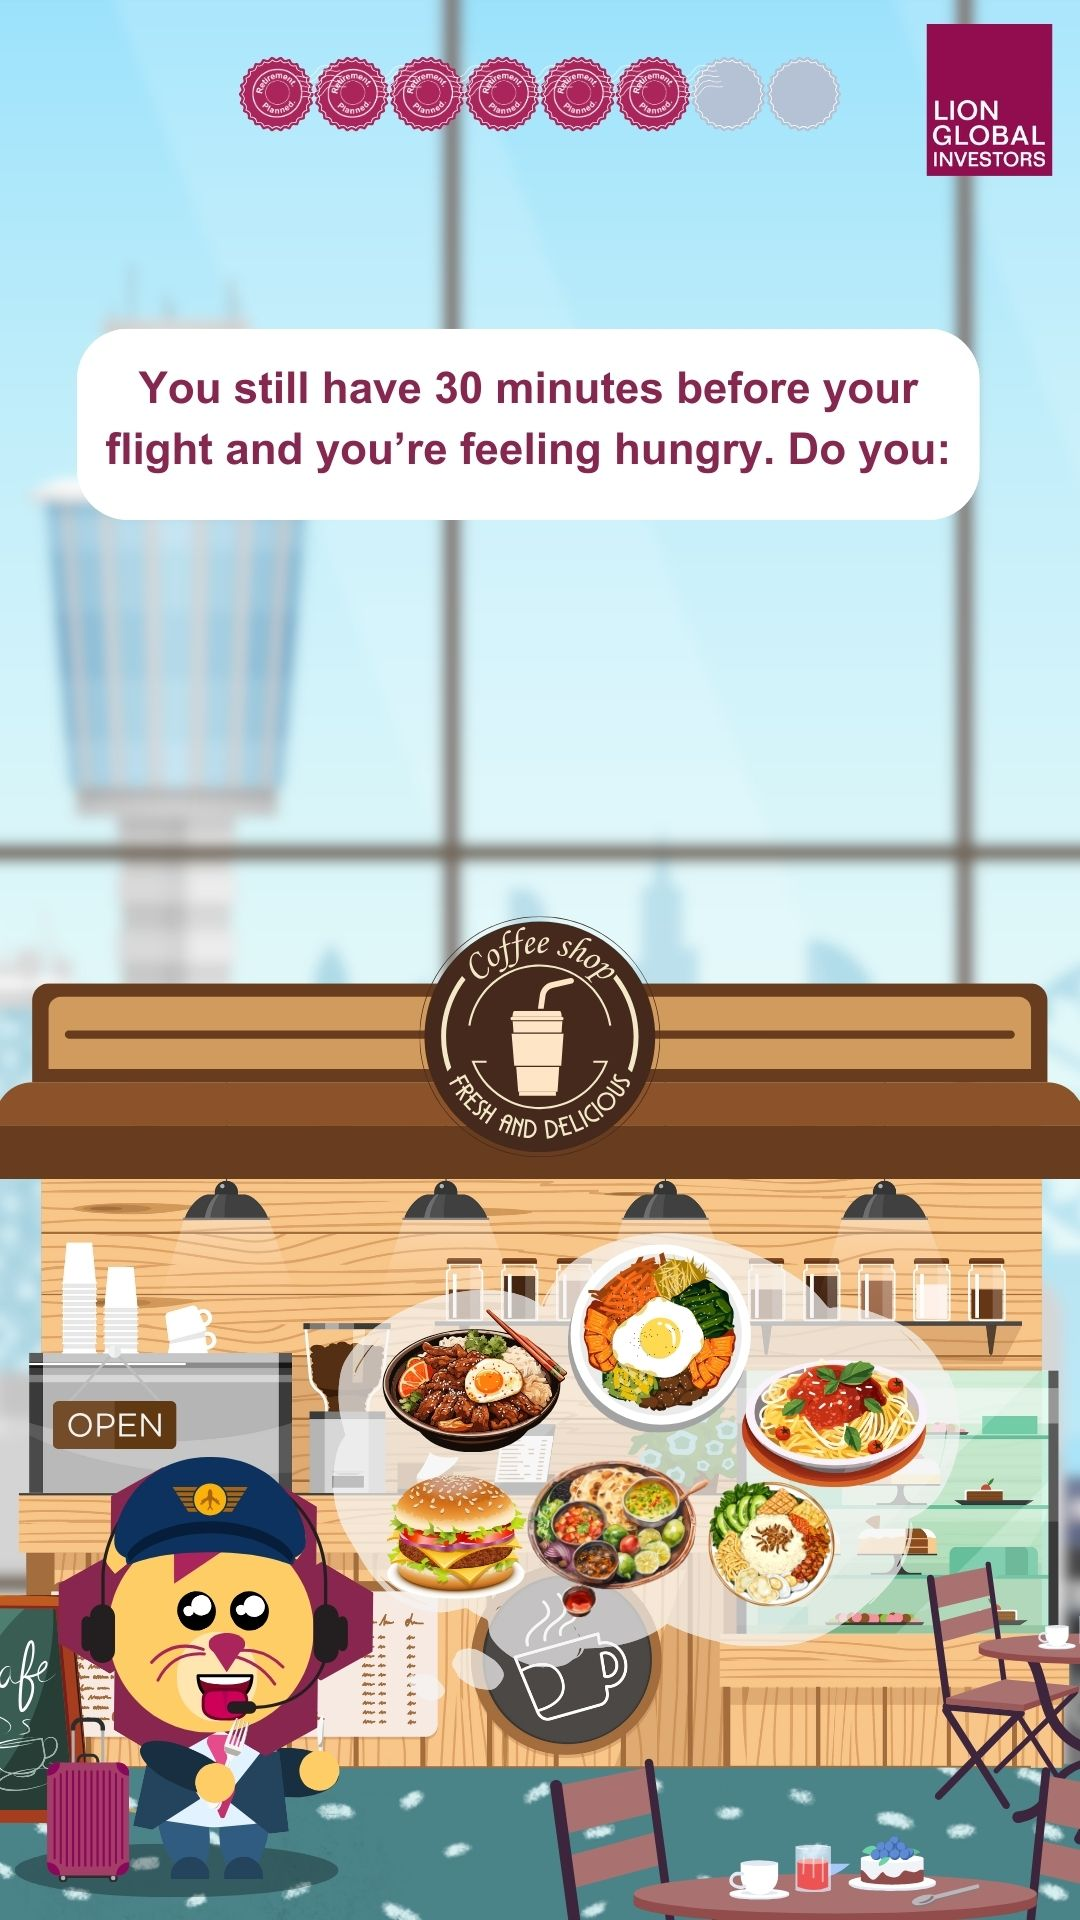
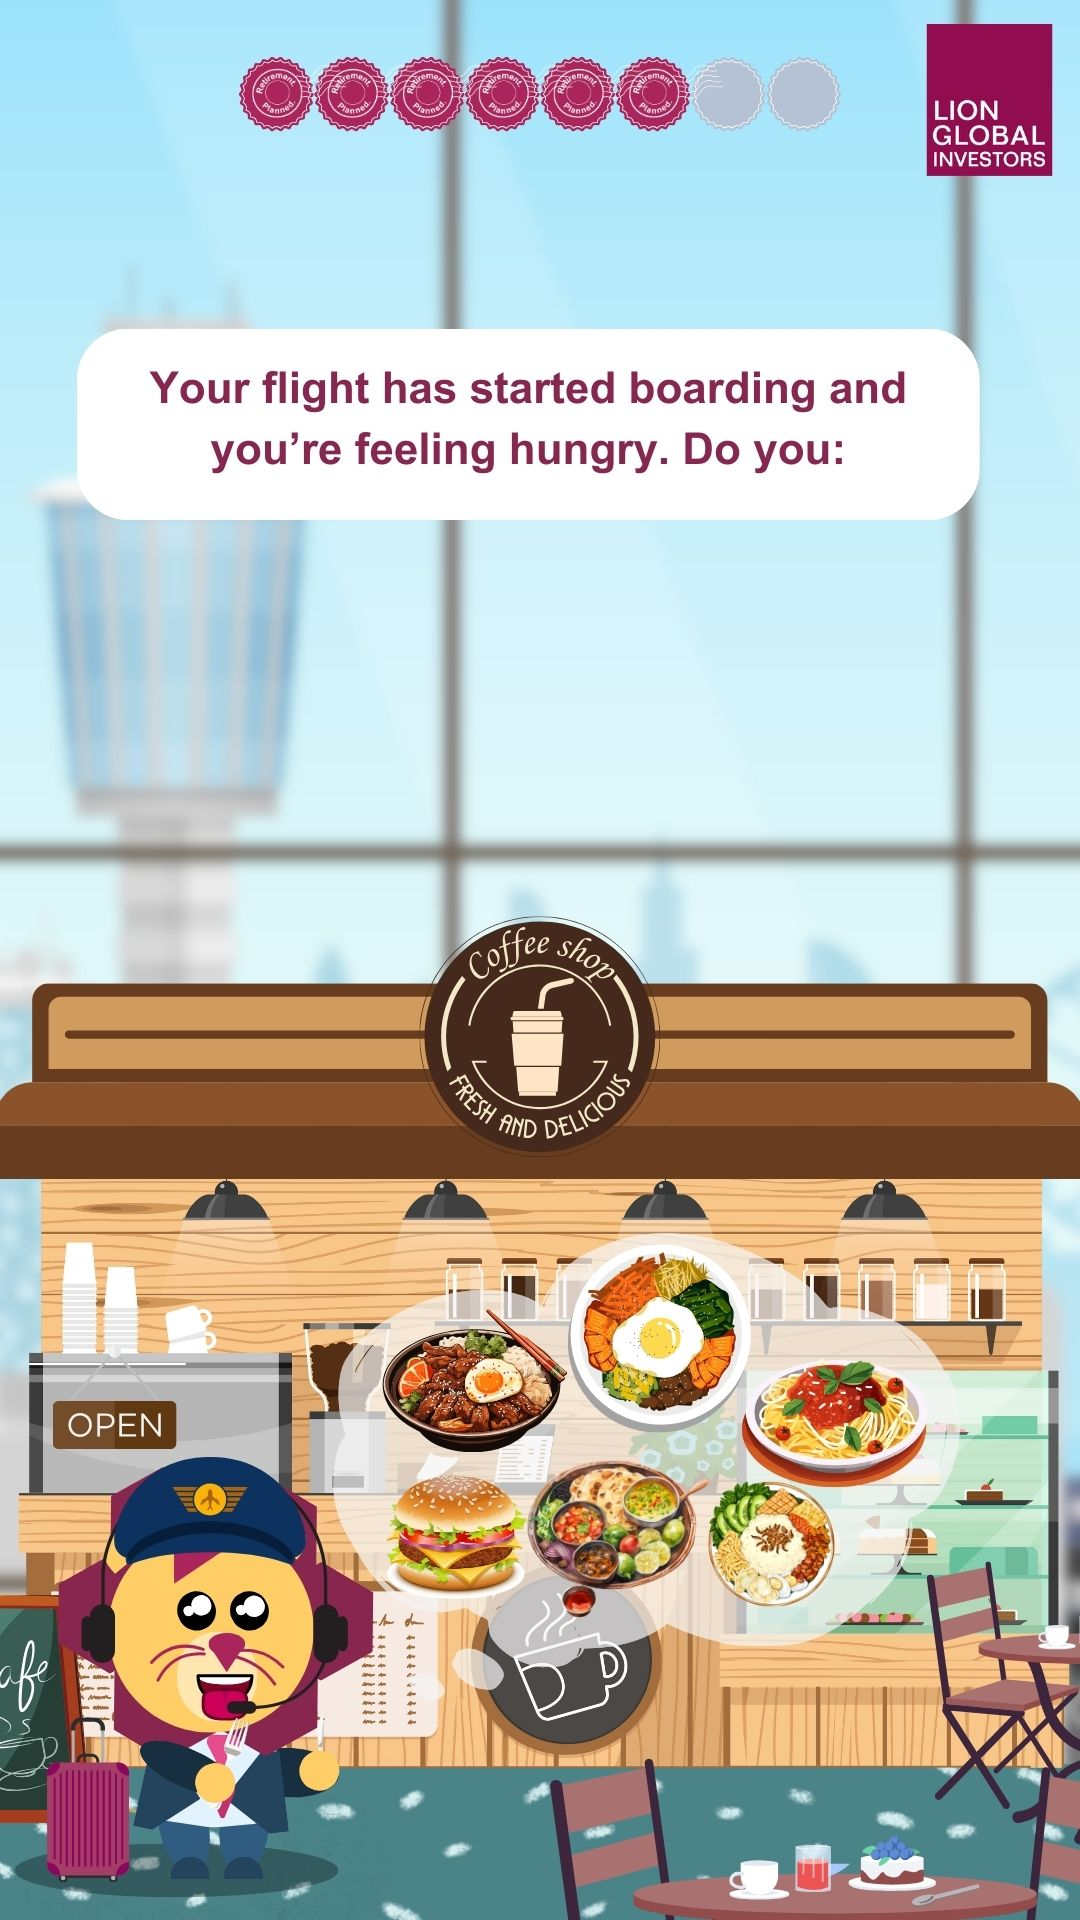
updated questions and answers
check options length, question and add disclaimer in

Changed region(s): [[0.0917, 0.1875, 0.8861, 0.25]]

diff --git a/script.js b/script.js
@@ -5,11 +5,11 @@ class Quiz {
     this.QUIZ = [
       {
         image: `quiz-Q1.jpg`,
-        question: `As you prepare to embark on a long journey, you pack your bag. <br> How do you pack?`,
+        question: `As you prepare to embark on a 14 days trip, you pack your bag. <br> How much clothing do you pack?`,
         answers: {
-          Wealth: `Bring the bare minimum`,
-          Capital: `Pack everything you might need`,
-          Legacy: `Pack half and wash there`,
+          Wealth: `Bring 2 - 3 sets of clothes only`,
+          Capital: `Pack extra clothing in case of weather changes`,
+          Legacy: `Pack an outfit for each day`,
           Income: `Pack half and buy the rest there`,
         },
       },
@@ -18,49 +18,49 @@ class Quiz {
         question: `Who is coming with you on your trip?`,
         answers: {
           Capital: `2 - 3 friends to split cost`,
-          Legacy: `Bring the whole kampong`,
+          Legacy: `Bring the whole kampong of family and / or friends`,
           Wealth: `Traveling solo for adventure`,
           Income: `Join a tour group for convenience`,
         },
       },
       {
         image: `quiz-Q3.jpg`,
-        question: `It's time to head to the airport. <br> When do you leave?`,
+        question: `It's time to head to the airport. <br> When do you reach the airport?`,
         answers: {
-          Legacy: `Leave 3 hours early to go shopping/eating`,
-          Capital: `Leave 3 hours early because kiasu`,
-          Income: `Leave 2 hours before to be just right on time`,
-          Wealth: `Leave 1 hour before your flight`,
+          Legacy: `3 hours early to go shopping/eating`,
+          Capital: `3 hours early because kiasu`,
+          Income: `2 hours before to be just right on time`,
+          Wealth: `1 hour before your flight`,
         },
       },
       {
         image: `quiz-Q4.jpg`,
         question: `While queuing to check in your luggage, someone tries to cut in front of you. <br> Do you:`,
         answers: {
-          Capital: `Let them cut in front of you hoping that someone else will speak up`,
-          Legacy: `Ask them to join the queue behind you`,
-          Wealth: `Attempt to block their way`,
-          Income: `Let them cut in front of you to avoid creating a scene`,
+          Income: `Let them cut in front of you hoping that someone else will speak up`,
+          Legacy: `Ask them nicely to join the queue behind you`,
+          Wealth: `Close the gap and block them from joining the queue in front of you`,
+          Capital: `Let them cut in front of you as you think they may be in a hurry`,
         },
       },
       {
         image: `quiz-Q5.jpg`,
-        question: `You're told that your flight is delayed. <br> What do you do first?`,
+        question: `You're told that your flight wiill be delayed overnight. <br> What do you do first?`,
         answers: {
           Income: `Pay extra to get onto the next available flight`,
-          Wealth: `Demand for the next available flight`,
-          Capital: `Wait for the delayed flight`,
-          Legacy: `Claim full compensation from insurance happily`,
+          Wealth: `Request for accommodation and meal allowance from the airline company`,
+          Capital: `Wait for the delayed flight patiently`,
+          Legacy: `Start checking how much can be claimed from travel insurance`,
         },
       },
       {
         image: `quiz-Q6.jpg`,
-        question: `You still have 30 minutes before your flight and you're feeling hungry. <br> What do you do?`,
+        question: `Your flight has started boarding and you're feeling hungry. <br> What do you do?`,
         answers: {
-          Wealth: `Eat at a restaurant at the transit area`,
+          Wealth: `Eat at a restaurant at the transit area believing you can finish eating in 15 minutes`,
           Capital: `Wait for the in-flight meal`,
-          Legacy: `Get a snack at the convenience store`,
-          Income: `Buy a takeaway at transit area and eat on the aircraft`,
+          Legacy: `Get a snack at the convenience store and eat while waiting to board the plane`,
+          Income: `Queue to buy a takeaway at transit area and eat on the aircraft once you board`,
         },
       },
       {
@@ -84,7 +84,7 @@ class Quiz {
           Wealth: `Continue enjoying the view with the shade up`,
           Legacy: `Pull down the window shade fully`,
           Capital: `Lower the shade halfway so you can still enjoy the view`,
-          Income: `Leave the shade up until they ask you to close it`,
+          Income: `Leave the shade up until they ask you to pull it down`,
         },
       },
       // landing gif
